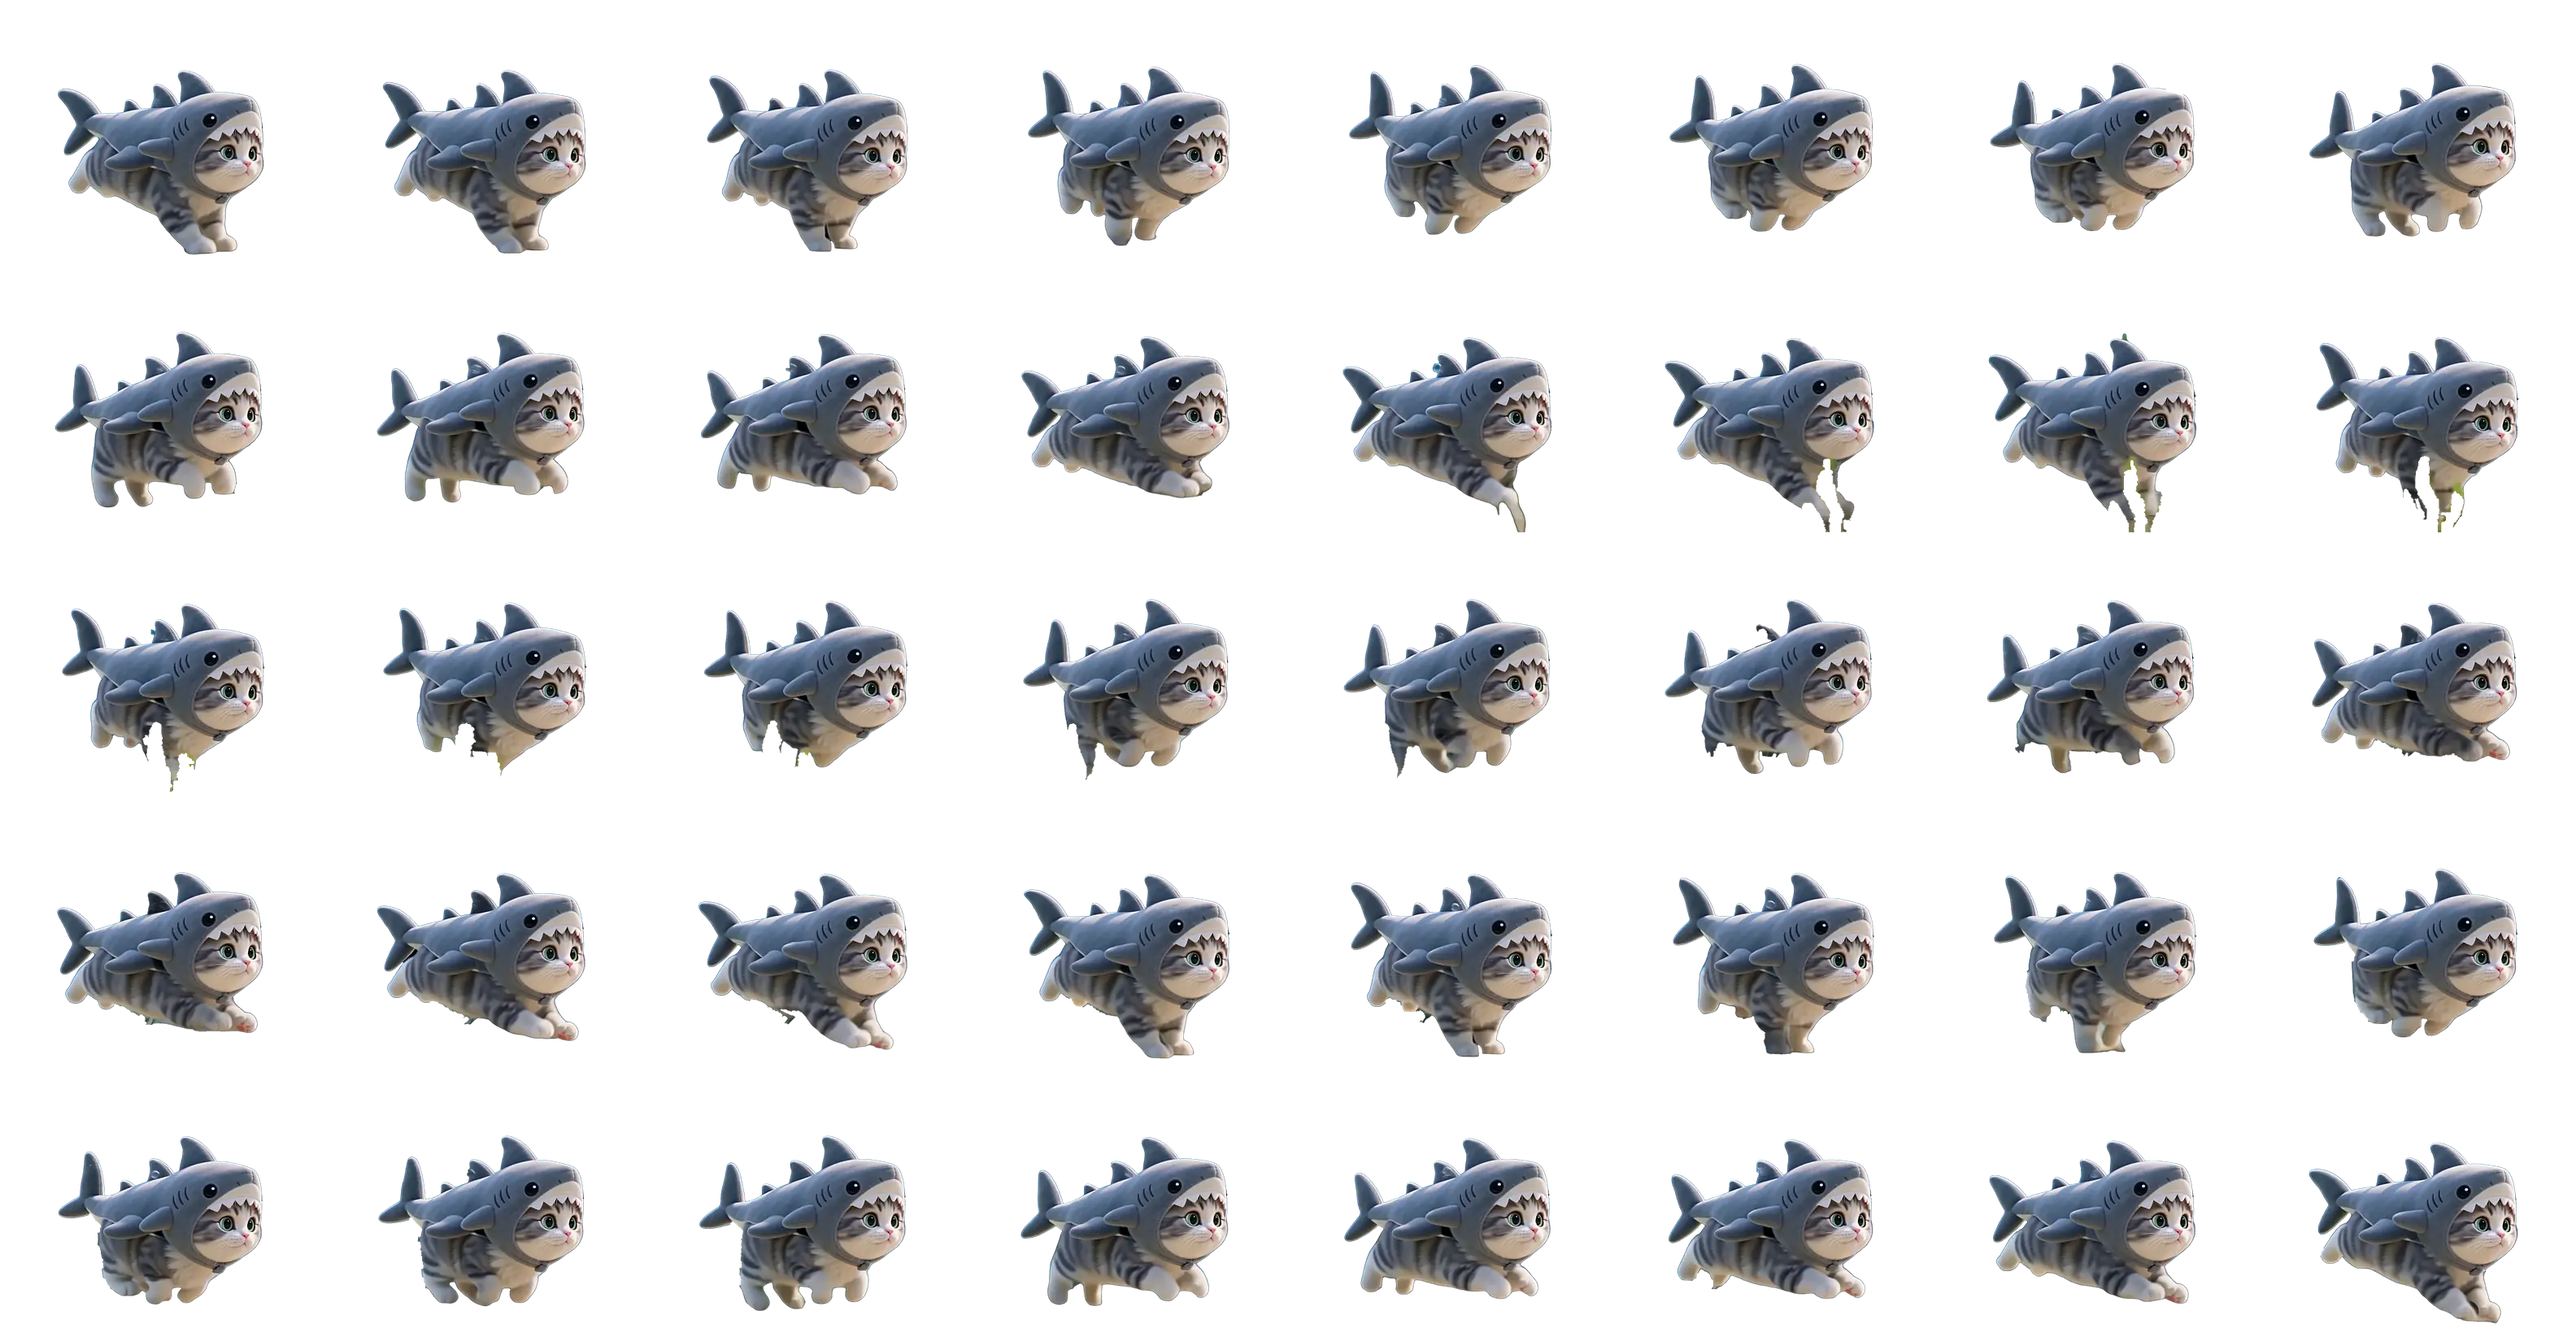
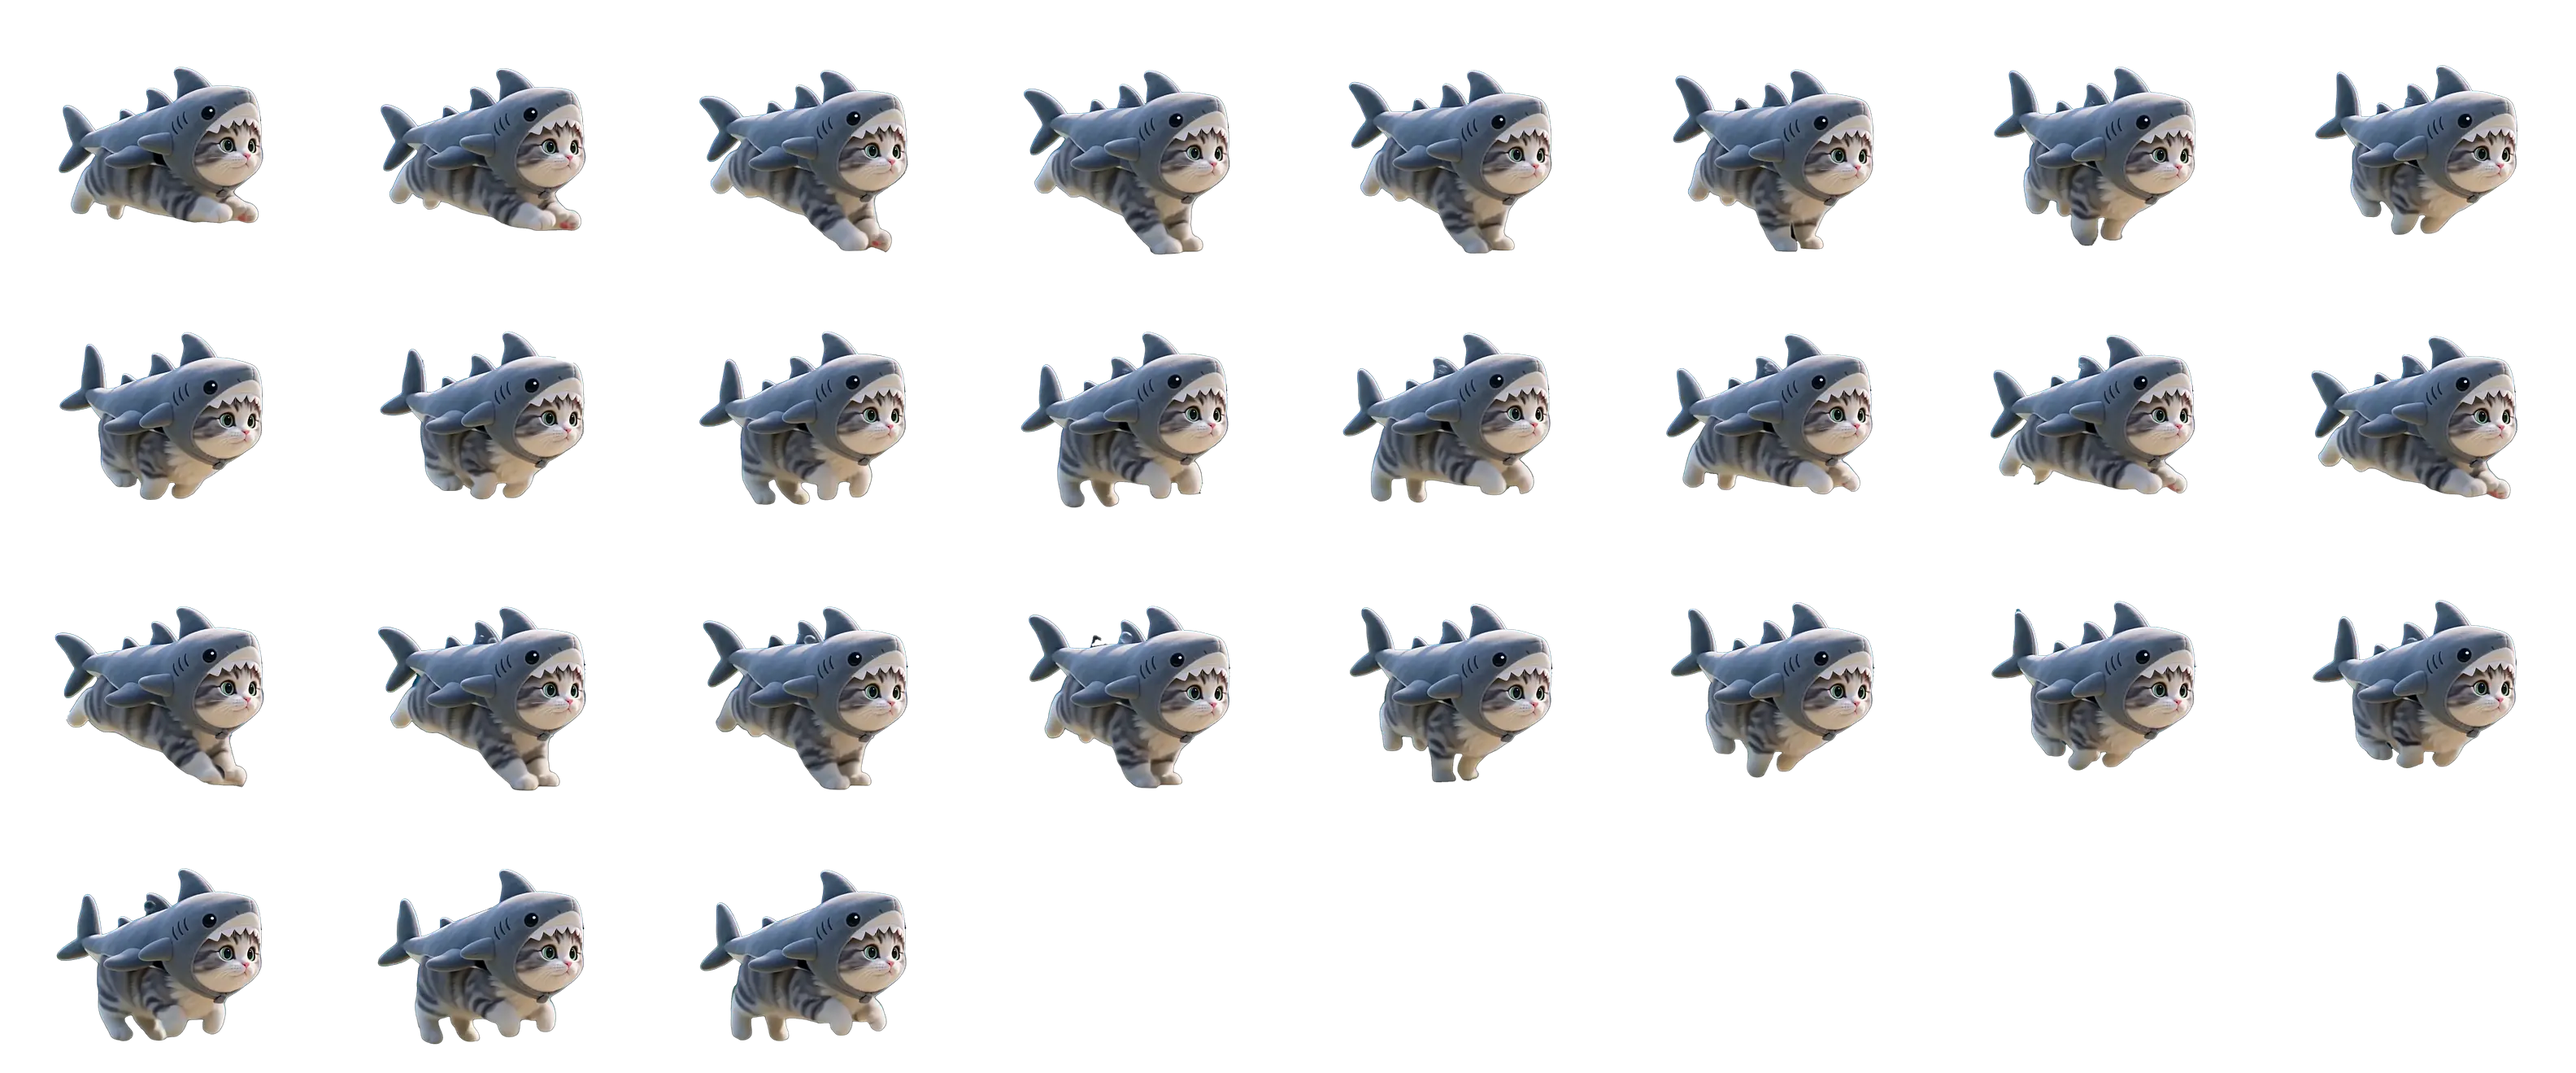
Fix swim flicker from seaweed; simpler home header
- The swim loop included frames where seaweed passed in front of his
  legs in the source clip; cutting it out left torn legs and green bits
  that flashed on every lap. The loop now chains two clean stretches
  (frames 4-16 then 43-56, joined where the poses match) - 27 frames
- Remove the status pill and the profile button from the home header;
  the streak pill sits on the right

Claude-Session: https://claude.ai/code/session_01B5uuep4CFevU3CzZGx4DoL

diff --git a/minum-air/app.js b/minum-air/app.js
@@ -510,8 +510,6 @@
   }
 
   // ---------- home ----------
-  // Five steps through the day for the little status pill.
-  const bracket5 = (p) => (p >= 1 ? 4 : p >= .75 ? 3 : p >= .45 ? 2 : p >= .2 ? 1 : 0);
   // When the next glass is due: the waking day split evenly into 250 ml glasses, counted
   // from the last drink (or from waking up).
   function nextSip(d) {
@@ -569,10 +567,8 @@
       <div class="top-bar">
         <span class="pill weather-chip">${Meowie.skyNow() === 'night' ? '🌙' : w ? (w.feels >= HEAT_START ? '☀' : '⛅') : '🌤'} ${w ? `${Math.round(w.feels)}°C ${esc(state.profile.city || '')}` : esc(state.profile.city || 'Malaysia')}</span>
         <button type="button" class="pill fire" id="streakBtn" aria-label="${t('streakTitle')}">🔥 ${t('streakPill', { n: streakCount() })}</button>
-        <button type="button" class="me-btn" id="meBtn" aria-label="${t('tabs').profile}"><img src="meowie-avatar.jpg" alt=""></button>
       </div>
-      <div class="home-head"><div><p class="date">${dateStr} 🌸</p><h2>${greeting()}${t('comma')}${name}!</h2></div>
-        <span class="track-pill">${t('track')[bracket5(pct)]}</span></div>
+      <div class="home-head"><div><p class="date">${dateStr} 🌸</p><h2>${greeting()}${t('comma')}${name}!</h2></div></div>
       <div class="stage"><div class="bubble-say" id="say" data-bracket="${bracket(pct)}">${lines[0]}</div><div class="hero-cat"></div></div>
       <div class="goal-card stats-row">
         <p class="gc-label"><i></i>${t('hydGoal')} 💧</p>
@@ -666,7 +662,6 @@
     $('#moreBtn', el).addEventListener('click', () => openSheet());
     el.querySelectorAll('[data-drink]').forEach((b) => b.addEventListener('click', () => openSheet(b.dataset.drink, b)));
     $('#streakBtn', el).addEventListener('click', openStreakSheet);
-    $('#meBtn', el).addEventListener('click', () => { const b = $('#tabbar [data-tab="profile"]'); if (b) b.click(); });
     const bar = $('.gc-bar span', el);
     if (bar) requestAnimationFrame(() => { bar.style.width = Math.min(100, pct * 100) + '%'; });
     const toggleLog = () => { logOpen = !logOpen; renderHome(false); };

diff --git a/minum-air/meowie.js b/minum-air/meowie.js
@@ -27,7 +27,7 @@
   const SHEETS = {
     idle: { n: 61, w: 360, x: 180, cols: 8 }, pet: { n: 18, w: 520, x: 180, cols: 7 },
     happy: { n: 26, w: 360, x: 180, cols: 8 },
-    swim: { n: 40, w: 360, x: 180, cols: 8 }, peek: { n: 57, w: 360, x: 180, cols: 8 },
+    swim: { n: 27, w: 360, x: 180, cols: 8 }, peek: { n: 57, w: 360, x: 180, cols: 8 },
     turn: { n: 15, w: 360, x: 180, cols: 8 },
   };
   const sheetUrl = (name) => `meowie-${name}.webp`;
@@ -38,7 +38,7 @@
     // out the way it came (the arrival played in reverse) as he opens his eyes again.
     pet: on('pet', range(0, 17).concat(range(16, 10), range(11, 17), range(16, 10), range(11, 17), range(16, 0))),
     happy: on('happy', range(0, 25)),
-    // In the water (his full shark suit): a seamless 40-frame swim loop, turning round from
+    // In the water (his full shark suit): a seamless 27-frame swim loop, turning round from
     // facing right to facing left, and stopping to look at you with a little "oh!".
     peek: on('peek', range(0, 56)),
     turn: on('turn', range(0, 14)),

diff --git a/minum-air/styles.css b/minum-air/styles.css
@@ -699,6 +699,7 @@ button.pill.fire:active { transform: scale(.94); }
 .top-bar { display: flex; align-items: center; gap: 8px; }
 .top-bar .pill { font-size: 13px; padding: 7px 12px; }
 .top-bar .weather-chip { align-self: auto; }
+.top-bar { justify-content: space-between; }
 .top-bar .fire { background: color-mix(in srgb, #ffb02e 22%, var(--card)); border-color: color-mix(in srgb, #ffb02e 45%, var(--line)); color: var(--ink); }
 .me-btn { margin-left: auto; width: 42px; height: 42px; border-radius: 50%; border: 2px solid var(--card); padding: 0; overflow: hidden; background: var(--brand); box-shadow: 0 4px 12px -6px rgba(10, 60, 110, .5); cursor: pointer; }
 .me-btn img { width: 100%; height: 100%; object-fit: cover; display: block; }

diff --git a/minum-air/sw.js b/minum-air/sw.js
@@ -1,5 +1,5 @@
 // Offline shell for Minum Air. Weather calls go straight to the network.
-const CACHE = 'minum-air-v24';
+const CACHE = 'minum-air-v25';
 const SHELL = ['/', '/styles.css', '/meowie.js', '/i18n.js', '/app.js', '/manifest.webmanifest', '/sound.js', '/favicon.png', '/icon-192.png', '/meowie-photo.jpg', '/meowie-avatar.jpg',
   '/meowie-idle.webp', '/meowie-pet.webp', '/meowie-happy.webp', '/meowie-swim.webp', '/meowie-peek.webp', '/meowie-turn.webp', '/meowie-drink-mask.webp'];
 
